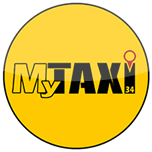
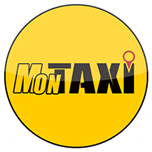
Name Change + Up to v1.2.5 + Ban System

diff --git a/index.html b/index.html
@@ -3,7 +3,7 @@
     <head>
     <meta http-equiv="Content-Type" content="text/html; charset=utf-8" />
     <meta http-equiv="CONTENT-LANGUAGE" content="French">
-    <title>My Taxi 34 by Taxi Global Services</title>
+    <title>MonTaxi 34 by Taxi Global Services</title>
     <link rel="apple-touch-icon" href="visuels/idev.favicon.png"/>
     <meta name="viewport" content="width=device-width, user-scalable=no, initial-scale=1, minimum-scale=1, maximum-scale=1"/>
     <!-- <meta name="viewport" content="width=device-width, height=device-height, user-scalable=yes, initial-scale=1"/> -->
@@ -102,6 +102,16 @@
 			{
 				$.mobile.pageContainer.pagecontainer("change", "#connect", { transition: "slide"} );
 			}
+			else {
+				$.post("https://www.mytaxiserver.com/taxioffsrv/blacklist.php", { userid: operator}, function(data) {
+					if (data.banned == 1)
+					{
+						$.mobile.pageContainer.pagecontainer("change", "#subscription", { transition: "slide"} );
+						var displayThis = '<p style="color:red;"><b>Votre compte &agrave; &eacute;t&eacute; banni pour cause d&rsquo;utilisation abusive, d&eacute;sol&eacute;.<br>Vous pouvez nous contacter pour toute r&eacute;clamation: </b></p><center><a href="mailto:info@taximedia.fr" class="ui-btn ui-btn-icon-left ui-icon-mail ui-btn-inline">Courriel</a><a href="tel:0413598022" class="ui-btn ui-btn-icon-left ui-icon-phone ui-btn-inline">T&eacute;l&eacute;phone</a></center>';
+						$("#subReturns").empty().append(displayThis);
+					}
+				}, "json");
+			}
 			if((navigator.network.connection.type == Connection.NONE) || !window.jQuery){
 				$("body").empty().append('<img src="no_network.png" width="'+screen.width+'" height="'+screen.height+'" onClick="window.location.reload()" />');
 			}
@@ -115,7 +125,7 @@
 		function onBackKeyDown() {
 			//history.back();
 			//changePage('#infos');
-			navigator.notification.alert('Veuillez ne pas quitter myTaxi pendant la recheche de taxi disponibles');
+			navigator.notification.alert('Veuillez ne pas quitter monTaxi pendant la recheche de taxi disponibles');
 		}
 		// Bouton menu
 		//function onMenuKeyDown() {}
@@ -178,7 +188,7 @@
 			setTimeout(function(){
 				//navigator.notification.alert(result.name + " " + result.phoneNumber);
 				var number = result.phoneNumber;
-				var message = "Téléchargez l'app myTaxi 34 en suivant ce lien : http://www.taximedia.fr/stores.php?app=mytaxi&dep=34";
+				var message = "Téléchargez l'app monTaxi 34 en suivant ce lien : http://www.taximedia.fr/stores.php?app=mytaxi&dep=34";
 				var intent = ""; //leave empty for sending sms using default intent
 				var success = function () {
 					//navigator.notification.alert('Message sent successfully');
@@ -685,6 +695,16 @@
 			if($.localStorage.getItem('registeredUser') != 1)
 			{
 				$.mobile.pageContainer.pagecontainer("change", "#connect", { transition: "slide"} );
+			}
+			else {
+				$.post("https://www.mytaxiserver.com/taxioffsrv/blacklist.php", { userid: operator}, function(data) {
+					if (data.banned == 1)
+					{
+						$.mobile.pageContainer.pagecontainer("change", "#subscription", { transition: "slide"} );
+						var displayThis = '<p style="color:red;"><b>Votre compte &agrave; &eacute;t&eacute; banni pour cause d&rsquo;utilisation abusive, d&eacute;sol&eacute;.<br>Vous pouvez nous contacter pour toute r&eacute;clamation: </b></p><center><a href="mailto:info@taximedia.fr" class="ui-btn ui-btn-icon-left ui-icon-mail ui-btn-inline">Courriel</a><a href="tel:0413598022" class="ui-btn ui-btn-icon-left ui-icon-phone ui-btn-inline">T&eacute;l&eacute;phone</a></center>';
+						$("#subReturns").empty().append(displayThis);
+					}
+				}, "json");
 			}
 			locateMe();
 			$('.noAppHide').each(function () {
@@ -1452,7 +1472,7 @@
             <div class="ui-bar-b ui-corner-all ui-shadow" style="padding:1em; display:block;">
             	<center>
                 <img src="visuels/logo.png" width="60%" style="max-width:252px"/>
-                <p><b><br><br>Votre demande a &eacute;t&eacute; prise en compte, votre taxi prendra contact avec vous par t&eacute;l&eacute;phone ou sms.<br><br>Toute l&rsquo;&eacute;quipe myTaxi 34 vous remercie.</b></p>
+                <p><b><br><br>Votre demande a &eacute;t&eacute; prise en compte, votre taxi prendra contact avec vous par t&eacute;l&eacute;phone ou sms.<br><br>Toute l&rsquo;&eacute;quipe monTaxi 34 vous remercie.</b></p>
                 <button class="ui-btn ui-corner-all ui-shadow ui-btn-b ui-btn-icon-left ui-icon-back" onClick="goback('index.html')">Retour</button>
                 </center>
             </div>
